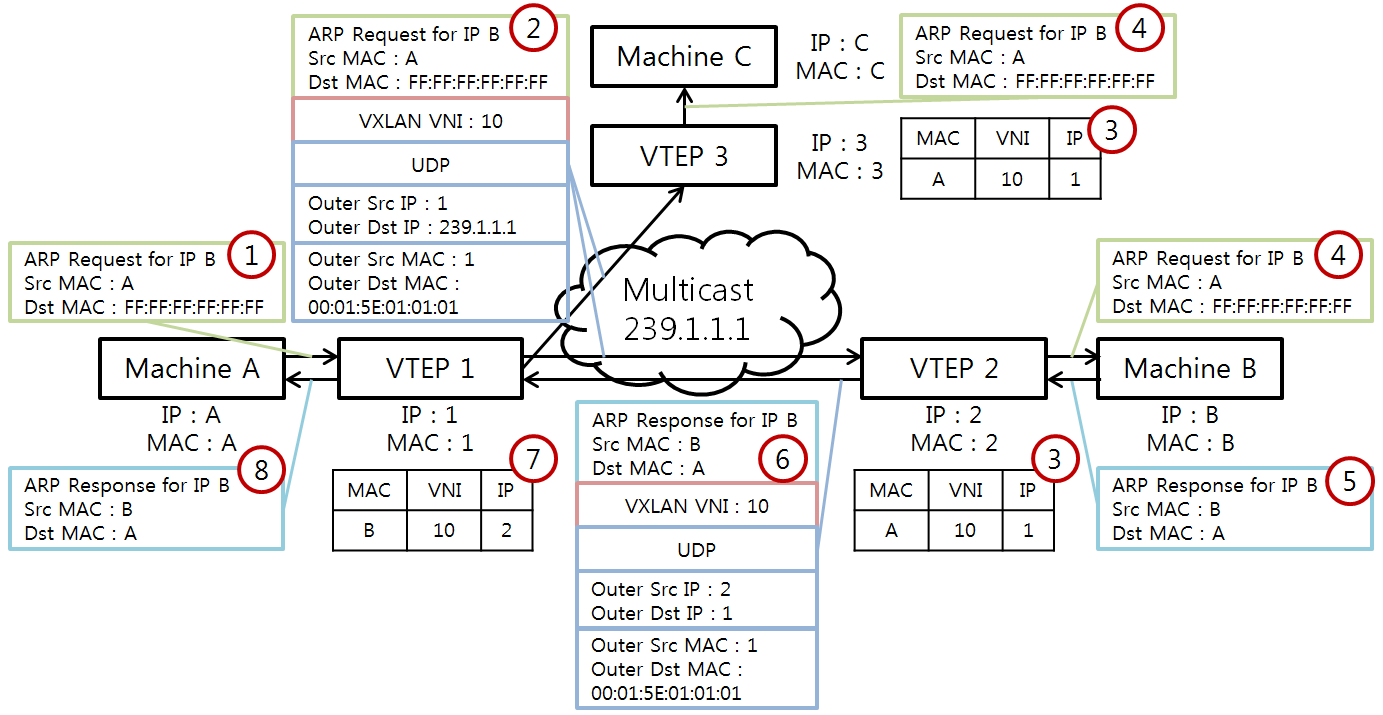
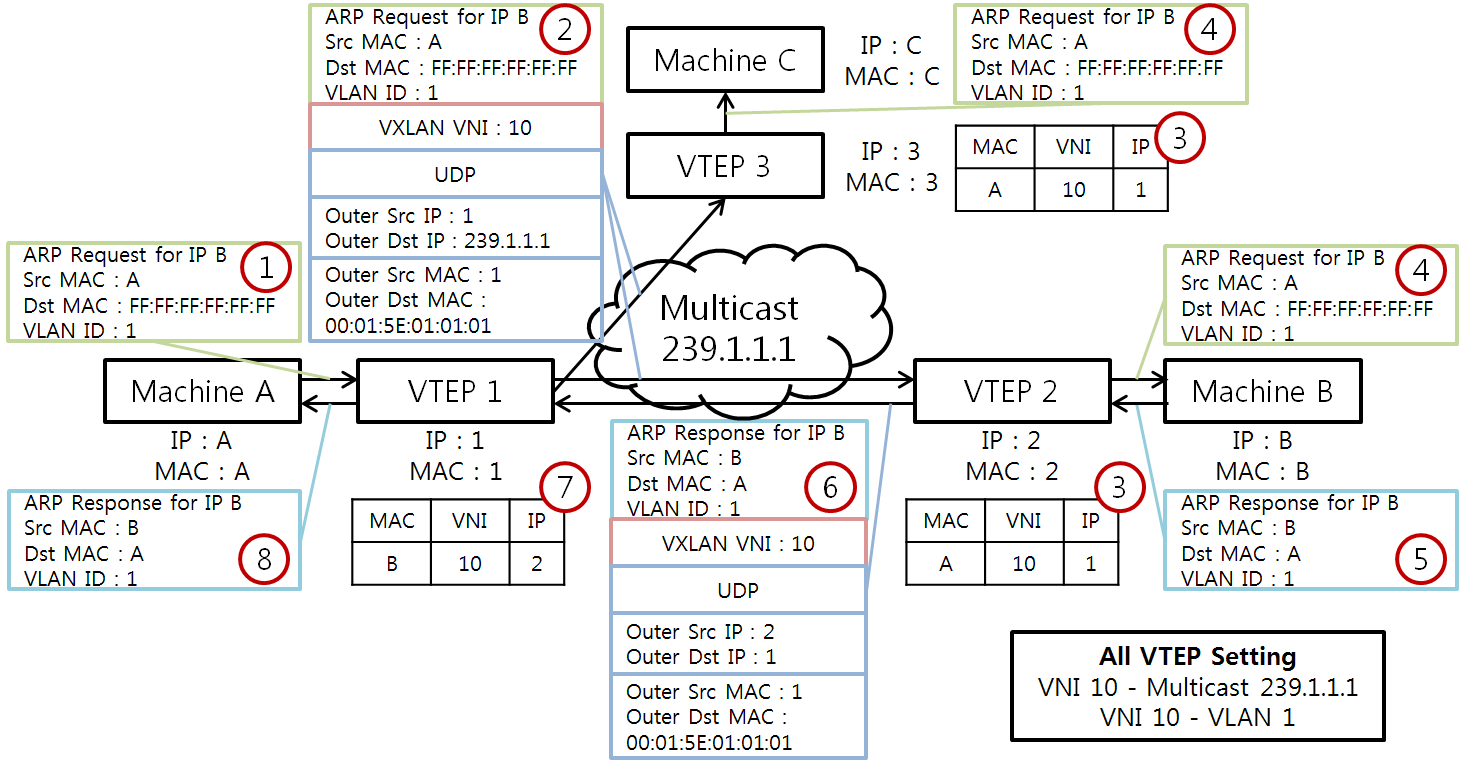
Update VXLAN

diff --git a/_docs/theory_analysis/Overlay_Network_VXLAN.md b/_docs/theory_analysis/Overlay_Network_VXLAN.md
@@ -21,44 +21,64 @@ Overlay Network는 실제 물리 Network위에서 가상 Network를 구축하는
 
 VXLAN (Virtual Extensible LAN)은 Overlay Netowrk 구축을 위한 Network Protocol 중 하나이다. 위의 그림은 VXLAN의 개요를 간략하게 나타내고 있다.
 
-VXLAN은 **Tunneling**을 기반으로 하는 기법이다. 가상 Network안에서 발생한 Packet은 Encapsulation되어 물리 Network를 통과하고 다시 Decapsulation되어 가상 Network로 전달된다. 이러한 Packet의 Encapsulation/Decapsulation이 발생하는 지점을 VXLAN에서는 **VTEP(VXLAN Tunnel End Point)**이라고 한다. VTEP은 가상 Software 장치가 될 수도 있고, VXLAN을 지원하는 물리 장치가 될 수도 있다. 위의 그림에서 VM (Virtual Machine)은 Hypervisor가 제공하는 Software 장치를 이용하고 있고, PM (Pysical Machine)은 물리 VTEP을 나타내고 있다.
+VXLAN은 **Tunneling**을 기반으로 하는 기법이다. 가상 Network안에서 발생한 Packet은 Encapsulation되어 물리 Network를 통과하고 다시 Decapsulation되어 가상 Network로 전달된다. 이러한 Packet의 Encapsulation/Decapsulation이 발생하는 지점을 VXLAN에서는 **VTEP(VXLAN Tunnel End Point)**이라고 한다. VTEP은 가상 Software 장치가 될 수도 있고, VXLAN을 지원하는 물리 장치가 될 수도 있다. 위의 그림에서 VM (Virtual Machine)은 Hypervisor가 제공하는 Software VTEP를 이용하고 있고, PM (Pysical Machine)은 물리 VTEP을 이용하고 있다.
 
 Encapsulation된 Packet은 VXLAN Header에 있는 **VNI(VXLAN ID)**를 통해서 어느 가상 Network의 Packet인지 구분되고 격리된다. 따라서 VXI 하나당 하나의 가상 Network를 의미한다. VNI는 VLAN의 VLAN ID와 동일한 역활을 수행한다고 할 수 있다. 위의 그림에서는 VNI 1000과 VNI 2000을 이용한 2개의 가상 Network를 나타내고 있다.
-
-#### vs VLAN
-
-VLAN을 통해서도 가상 Network를 만들 수 있다. 하지만 VLAN은 Cloud 환경에서 이용하기에는 몇몇가지 제한 사항이 있다. 먼져 VLAN의 VLAN ID는 12bit로 이루어져 있기 때문에 약 4000개의 VLAN ID밖에 이용하지 못한다. VLAN만을 이용하여 가상 Network를 구성하면 최대 4000 Tenant들만 수용 할 수 있다는 의미이다.
-
-VLAN은 L2 Layer 기술이다. VLAN을 이용하여 가상 Network를 구축하여도, 물리 스위치는 Host의 Mac Address 뿐만 아니라 VM의 MAC Address를 Learning하고 MAC Address Table을 유지해야 한다. 문제는 하나의 Host에서 다수의 VM이 동작하는 Cloud 환경에서 VM의 개수는 Host의 개수보다 훨씬 많다는 점이다. 따라서 물리 스위치가 VM의 MAC Address도 관리해야 한다는 점은 큰 부담이 될 수 있다.
-
-VXLAN의 VNI는 24bit로 이루어져 있기 때문에 약 16,000,000개의 VNI를 이용할 수 있다. 또한 VXLAN은 Tunneling을 기반으로 하는 기법이기 때문에 중간의 물리 스위치들은 가상 Network안에 있는 VM의 MAC Address를 관리할 필요가 없다. VM의 MAC Address는 VTEP에서만 관리한다. Cloud 환경에서 VTEP은 Hypervisor가 제공하는 가상의 VTEP를 이용할 수 있기 때문에 기존의 Legacy 환경에서도 쉽게 VXLAN을 적용 할 수 있다.
 
 #### 2.1. VXLAN Packet
 
 ![]({{site.baseurl}}/images/theory_analysis/Overlay_Network_VXLAN/VXLAN_Packet.PNG)
 
-위 그림은 VXLAN의 Packet 구조를 나타내고 있다. VXLAN은 IP/UDP를 이용하여 Tunneling을 수행한다. Packet 의 밖에는 Host가 이용하는 물리 Network에서의 Packet 전달을 위한 Outer Ethernet Header, Outer IP Header, Outer UDP Header가 있다. 안쪽에는 VXLAN Header와 가상 Network안에서 발생한 VM의 L2 Packet이 위치하고 있다.
+위 그림은 VXLAN의 Packet 구조를 나타내고 있다. VXLAN은 IP/UDP를 이용하여 Tunneling을 수행한다. Packet 의 밖에는 Host가 이용하는 물리 Network에서의 Packet 전달을 위한 Outer Ethernet Header, Outer IP Header, Outer UDP Header가 있다. 안쪽에는 VXLAN Header와 가상 Network안에서 발생한 VM의 L2 Packet이 위치하고 있다. VXLAN Header안에 VNI가 저장되어 있다. VNI는 24bit로 구성되어 있어 약 16,000,000개의 VNI를 이용할 수 있다.
 
 #### 2.2. VXLAN Broadcast, VTEP MAC Address Learning
 
 VXLAN은 가상 Network안에서 발생한 Broadcast Packet을 물리 Network안에서의 **IP Multicast**로 처리하여 효율적으로 Network를 이용한다. IP/UDP를 이용하여 Tunneling하는 이유도 물리 Network에서의 IP Multicast를 이용하기 때문이다.
 
+가상 Network안에서 발생한 Broadcast Packet이 물리 Network안에서 IP Multicast로 처리된다는 의미는 특정 VNI와 Multicast Group이 Mapping되어 있다는 의미와 같다. 이러한 Mapping 정보는 VTEP에 설정해 놓는다. VNI는 약 16,000,000개 이지만 Multicast Group의 개수는 약 1000개 이기 때문에 VNI와 Multicast Group은 실제로 N:1의 관계를 갖게된다.
+
+VTEP은 가상 Network Packet이 Encapsulation되는 지점이기 때문에 Encapsulation을 위한 정보도 알고 있어야 한다. 따라서 VTEP은 자신에게 온 가상 Network Packet을 몇번 VNI로 Encapsulation 할지 정해야 한다. 일반적으로 가상 Network Packet의 VLAN ID와 VLAN의 Mapping 정보를 VTEP에 설정해 놓는다. 또는 가상 Network Packet의 Dst Subnet IP와 VNI를 Mapping하도록 VTEP을 설정 할 수도 있다.
+
 ![]({{site.baseurl}}/images/theory_analysis/Overlay_Network_VXLAN/VXLAN_Address_Learning.PNG)
 
-위의 그림은 가상 Network안에서 발생한 ARP Packet에 따른 VTEP의 MAC Address Learing 과정을 나타내고 있다. ARP Packet의 처리 과정을 통해서 VXLAN Broadcast의 처리 과정을 이해 할 수 있다. 위의 그림의 모든 VTEP은 VNI 10과 239.1.1.1 Multicast Group을 Mapping한 상태라고 가정한다.
+위의 그림은 가상 Network안에서 발생한 ARP Packet에 따른 VTEP의 MAC Address Learning 과정을 나타내고 있다. ARP Packet의 처리 과정을 통해서 VXLAN Broadcast의 처리 과정을 이해 할 수 있다. 위 그림의 모든 VTEP은 VNI 10과 239.1.1.1 Multicast Group을 Mapping하도록 설정되어 있다. 또한 VNI 10과 VLAN 1을 Mapping하도록 설정되어 있다.
 
-1. Machine A에서 ARP Request Packet을
+1. Machine A에서 IP B의 Mac Address를 알기 위해 ARP Request Packet을 VLAN ID 1과 함께 전송한다.
 
-VNI와 Multicast Group Mapping은 VTEP에서 설정 할 수 있다. VNI는 약 16,000,000개 이지만 Multicast Group의 개수는 약 1000개 이기 때문에 VNI와 Multicast Group은 N:1의 관계를 갖게된다.
+1. VTEP 1은 가상 Network Packet의 VLAN ID가 1인것을 확인한다. VTEP에 VLAN 1과 VNI 10이 Mapping 되어 있고, VNI 10은 Multicast 239.1.1.1에 Mapping되어 있기 때문에, 가상 Network Packet은 VNI 10으로 Encapsulation 된 후 239.1.1.1에 전송한다.
 
-VXLAN이 UDP를 이용하는 이유는
+1. Encapsulation된 Packet은 239.1.1.1 Multicast Group에 참여한 VTEP 2, VTEP 3에 전송된다. VTEP 2, VTEP 3은 Encapsulation된 Packet의 정보를 바탕으로 **Src MAC/VNI/Outer Src IP** Mapping Table을 생성한다.
+
+1. VTEP 2, VTEP 3은 Encapsulation된 Packet을 Decapsulation하여 원래의 ARP Packet으로 변환한다. 그 후 Machine B, Machine C에 각각 전송한다.
+
+1. IP B가 Machine B의 IP이기 때문에 Machine B만 ARP Response를 Machine A에게 Unicast한다.
+
+1. VTEP 2에 저장된 Src MAC/VNI/Outer Src IP Mapping Table을 바탕으로 ARP Response Packet을 VTEP 1에게 Unicast된다.
+
+1. Encapsulation된 ARP Response Packet을 받은 VTEP 1은 Src MAC/VNI/Outer Src IP Table을 생성한다.
+
+1. VTEP 1은 Decapsulation을 통해 ARP Response Packet을 Machine A에게 전달한다.
+
+ARP Packet 처리 과정을 통해 VXLAN이 얼마나 효율적으로 Broadcast와 Unicast를 처리하는지 파악 할 수 있다.
 
 #### 2.3. VXLAN Unicast
 
 ![]({{site.baseurl}}/images/theory_analysis/Overlay_Network_VXLAN/VXLAN_Unicast.PNG)
 
-### 3. 참조
+위의 그림은 VXLAN Unicast 과정을 나타내고 있다. ARP Response Packet이 처리되는 과정과 비슷하다. 각 VTEP이 가지고 있는 Src MAC/VNI/Outer Src IP Table을 바탕으로 효율적으로 Unicast를 처리한다.
+
+### 3. vs VLAN
+
+VLAN을 통해서도 가상 Network를 만들 수 있다. 하지만 VLAN은 Cloud 환경에서 이용하기에는 몇몇가지 제한 사항이 있다. 먼져 VLAN의 VLAN ID는 12bit로 이루어져 있기 때문에 약 4000개의 VLAN ID밖에 이용하지 못한다. VLAN만을 이용하여 가상 Network를 구성하면 최대 4000 Tenant들만 수용 할 수 있다는 의미이다.
+
+VLAN은 L2 Layer 기술이다. VLAN을 이용하여 가상 Network를 구축하여도, 물리 스위치는 Host의 Mac Address 뿐만 아니라 VM의 MAC Address를 Learning하고 MAC Address Table을 유지해야 한다. 문제는 하나의 Host에서 다수의 VM이 동작하는 Cloud 환경에서 VM의 개수는 Host의 개수보다 훨씬 많다는 점이다. 따라서 물리 스위치가 VM의 MAC Address도 관리해야 한다는 점은 큰 부담이 될 수 있다.
+
+VXLAN의 VNI는 약 16,000,000개를 이용 할 수 있기 때문에 많은 수의 Tenant를 수용할 수 있다. 또한 VXLAN은 Tunneling을 기반으로 하는 기법이기 때문에 중간의 물리 스위치들은 가상 Network안에 있는 VM의 MAC Address를 관리할 필요가 없다. VM의 MAC Address는 VTEP에서만 관리한다. Cloud 환경에서 VTEP은 Hypervisor가 제공하는 가상의 VTEP를 이용할 수 있기 때문에 기존의 Legacy 환경에서도 쉽게 VXLAN을 적용 할 수 있다.
+
+### 4. 참조
 
 * [http://youngmind.tistory.com/entry/Network-Overlay-VXLAN-%EB%B6%84%EC%84%9D-1](http://youngmind.tistory.com/entry/Network-Overlay-VXLAN-%EB%B6%84%EC%84%9D-1)
 
 * [https://www.slideshare.net/KwonSunBae/vxlan-deep-dive-session-rev05-final](https://www.slideshare.net/KwonSunBae/vxlan-deep-dive-session-rev05-final)
+
+* [https://www.arista.com/assets/data/pdf/Whitepapers/Arista_Networks_VXLAN_White_Paper.pdf](https://www.arista.com/assets/data/pdf/Whitepapers/Arista_Networks_VXLAN_White_Paper.pdf)
